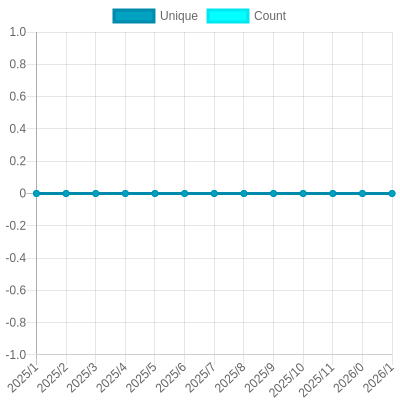
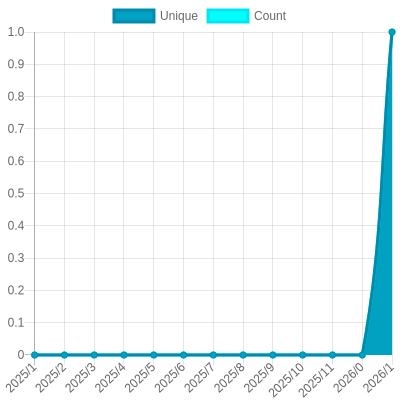
Update views

diff --git a/README.md b/README.md
@@ -202,7 +202,7 @@ The project created and maintained by [gayanvoice](https://github.com/gayanvoice
 			</a>
 		</td>
 		<td>
-			2025/2/16 7:33 AM UTC
+			2025/2/17 7:33 AM UTC
 		</td>
 		<td>
 			0
@@ -218,7 +218,7 @@ The project created and maintained by [gayanvoice](https://github.com/gayanvoice
 			</a>
 		</td>
 		<td>
-			2025/2/16 7:33 AM UTC
+			2025/2/17 7:33 AM UTC
 		</td>
 		<td>
 			0
@@ -234,7 +234,7 @@ The project created and maintained by [gayanvoice](https://github.com/gayanvoice
 			</a>
 		</td>
 		<td>
-			2025/2/16 7:33 AM UTC
+			2025/2/17 7:33 AM UTC
 		</td>
 		<td>
 			0
@@ -250,7 +250,7 @@ The project created and maintained by [gayanvoice](https://github.com/gayanvoice
 			</a>
 		</td>
 		<td>
-			2025/2/16 7:33 AM UTC
+			2025/2/17 7:33 AM UTC
 		</td>
 		<td>
 			0
@@ -266,7 +266,7 @@ The project created and maintained by [gayanvoice](https://github.com/gayanvoice
 			</a>
 		</td>
 		<td>
-			2025/2/16 7:33 AM UTC
+			2025/2/17 7:33 AM UTC
 		</td>
 		<td>
 			0
@@ -282,7 +282,7 @@ The project created and maintained by [gayanvoice](https://github.com/gayanvoice
 			</a>
 		</td>
 		<td>
-			2025/2/16 7:33 AM UTC
+			2025/2/17 7:33 AM UTC
 		</td>
 		<td>
 			0
@@ -293,7 +293,7 @@ The project created and maintained by [gayanvoice](https://github.com/gayanvoice
 	</tr>
 </table>
 
-<small><i>Last updated on 2025/2/19 7:33 AM UTC</i></small>
+<small><i>Last updated on 2025/2/19 12:43 PM UTC</i></small>
 
 ## ✂Copy and 📋 Paste
 ### Total Views Badge

diff --git a/readme/778969643/year.md b/readme/778969643/year.md
@@ -23,10 +23,10 @@
 			<code>2025/2/1</code>
 		</td>
 		<td>
-			<code>1</code>
+			<code>2</code>
 		</td>
 		<td>
-			<code>1</code>
+			<code>2</code>
 		</td>
 	</tr>
 	<tr>
@@ -164,7 +164,7 @@
 </table>
 
 </details>
-<small><i>Last updated on 2025/2/19 7:32 AM UTC</i></small>
+<small><i>Last updated on 2025/2/19 12:42 PM UTC</i></small>
 
 ## ✂Copy and 📋 Paste
 ### SVG Badge

diff --git a/readme/871952122/year.md b/readme/871952122/year.md
@@ -23,10 +23,10 @@
 			<code>2025/2/1</code>
 		</td>
 		<td>
-			<code>0</code>
+			<code>1</code>
 		</td>
 		<td>
-			<code>0</code>
+			<code>1</code>
 		</td>
 	</tr>
 	<tr>
@@ -164,7 +164,7 @@
 </table>
 
 </details>
-<small><i>Last updated on 2025/2/19 7:31 AM UTC</i></small>
+<small><i>Last updated on 2025/2/19 12:41 PM UTC</i></small>
 
 ## ✂Copy and 📋 Paste
 ### SVG Badge

diff --git a/readme/343410109/year.md b/readme/343410109/year.md
@@ -164,7 +164,7 @@
 </table>
 
 </details>
-<small><i>Last updated on 2025/2/19 7:33 AM UTC</i></small>
+<small><i>Last updated on 2025/2/19 12:43 PM UTC</i></small>
 
 ## ✂Copy and 📋 Paste
 ### SVG Badge

diff --git a/readme/415340637/year.md b/readme/415340637/year.md
@@ -164,7 +164,7 @@
 </table>
 
 </details>
-<small><i>Last updated on 2025/2/19 7:33 AM UTC</i></small>
+<small><i>Last updated on 2025/2/19 12:43 PM UTC</i></small>
 
 ## ✂Copy and 📋 Paste
 ### SVG Badge

diff --git a/readme/443017465/year.md b/readme/443017465/year.md
@@ -164,7 +164,7 @@
 </table>
 
 </details>
-<small><i>Last updated on 2025/2/19 7:33 AM UTC</i></small>
+<small><i>Last updated on 2025/2/19 12:43 PM UTC</i></small>
 
 ## ✂Copy and 📋 Paste
 ### SVG Badge

diff --git a/readme/574610783/year.md b/readme/574610783/year.md
@@ -164,7 +164,7 @@
 </table>
 
 </details>
-<small><i>Last updated on 2025/2/19 7:33 AM UTC</i></small>
+<small><i>Last updated on 2025/2/19 12:43 PM UTC</i></small>
 
 ## ✂Copy and 📋 Paste
 ### SVG Badge

diff --git a/readme/575362710/year.md b/readme/575362710/year.md
@@ -164,7 +164,7 @@
 </table>
 
 </details>
-<small><i>Last updated on 2025/2/19 7:33 AM UTC</i></small>
+<small><i>Last updated on 2025/2/19 12:43 PM UTC</i></small>
 
 ## ✂Copy and 📋 Paste
 ### SVG Badge

diff --git a/readme/575378569/year.md b/readme/575378569/year.md
@@ -164,7 +164,7 @@
 </table>
 
 </details>
-<small><i>Last updated on 2025/2/19 7:33 AM UTC</i></small>
+<small><i>Last updated on 2025/2/19 12:43 PM UTC</i></small>
 
 ## ✂Copy and 📋 Paste
 ### SVG Badge

diff --git a/readme/778360962/year.md b/readme/778360962/year.md
@@ -164,7 +164,7 @@
 </table>
 
 </details>
-<small><i>Last updated on 2025/2/19 7:33 AM UTC</i></small>
+<small><i>Last updated on 2025/2/19 12:42 PM UTC</i></small>
 
 ## ✂Copy and 📋 Paste
 ### SVG Badge

diff --git a/readme/778385283/year.md b/readme/778385283/year.md
@@ -164,7 +164,7 @@
 </table>
 
 </details>
-<small><i>Last updated on 2025/2/19 7:32 AM UTC</i></small>
+<small><i>Last updated on 2025/2/19 12:42 PM UTC</i></small>
 
 ## ✂Copy and 📋 Paste
 ### SVG Badge

diff --git a/readme/779474337/year.md b/readme/779474337/year.md
@@ -164,7 +164,7 @@
 </table>
 
 </details>
-<small><i>Last updated on 2025/2/19 7:32 AM UTC</i></small>
+<small><i>Last updated on 2025/2/19 12:42 PM UTC</i></small>
 
 ## ✂Copy and 📋 Paste
 ### SVG Badge
